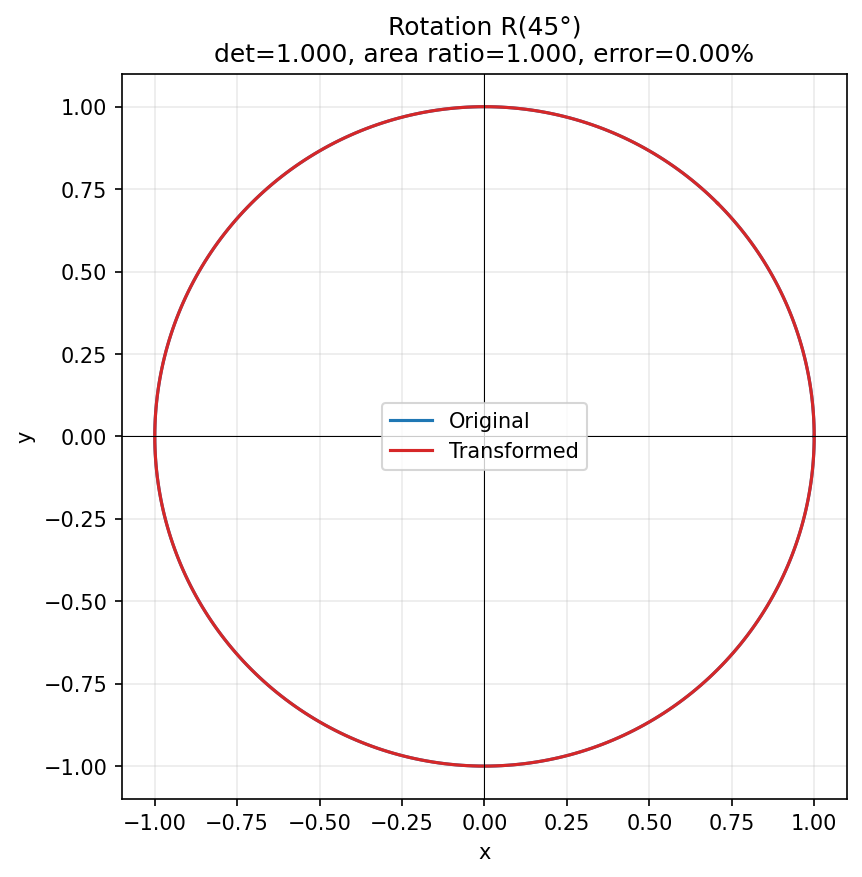
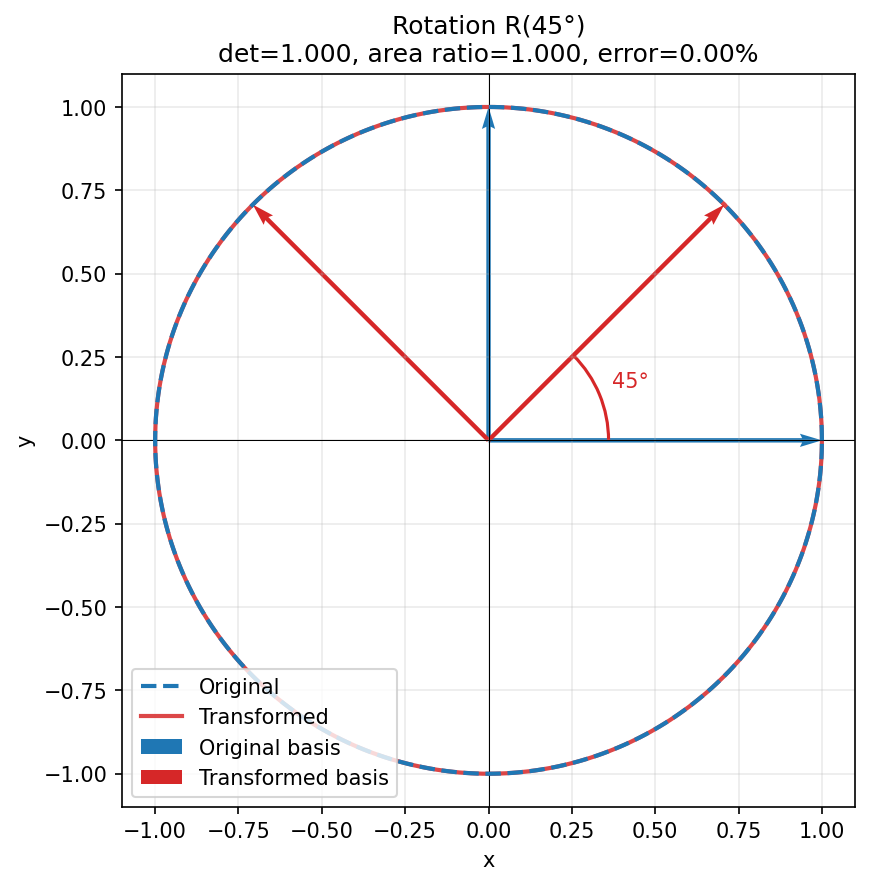
feat(linear-algebra): show rotation point movement

diff --git a/src/linear_algebra.py b/src/linear_algebra.py
@@ -6,6 +6,7 @@ import matplotlib.pyplot as plt
 import numpy as np
 from matplotlib.axes import Axes
 from matplotlib.figure import Figure
+from matplotlib.patches import Arc
 
 
 def unit_circle(num_points: int = 361) -> np.ndarray:
@@ -88,20 +89,87 @@ def plot_matrix_transform(
     ax: Optional[Axes] = None,
 ) -> Tuple[Figure, Axes]:
     """하나의 Figure에 원본과 변환한 단위 원 점을 겹쳐 그립니다."""
+    matrix_array = np.asarray(matrix, dtype=float)
     point_array = unit_circle() if points is None else np.asarray(points, dtype=float)
-    transformed = transform_points(matrix, point_array)
+    transformed = transform_points(matrix_array, point_array)
     if ax is None:
         figure, axes = plt.subplots(figsize=(6, 6))
     else:
         axes = ax
         figure = axes.figure
-    axes.plot(point_array[0], point_array[1], label="Original", color="tab:blue")
+    axes.plot(
+        point_array[0],
+        point_array[1],
+        label="Original",
+        color="tab:blue",
+        linestyle="--",
+        linewidth=2.0,
+        zorder=3,
+    )
     axes.plot(
         transformed[0],
         transformed[1],
         label="Transformed",
         color="tab:red",
+        linewidth=2.0,
+        alpha=0.85,
+        zorder=2,
     )
+    original_basis = np.eye(2)
+    transformed_basis = transform_points(matrix_array, original_basis)
+    quiver_options = {
+        "angles": "xy",
+        "scale_units": "xy",
+        "scale": 1.0,
+        "width": 0.006,
+    }
+    axes.quiver(
+        [0.0, 0.0],
+        [0.0, 0.0],
+        original_basis[0],
+        original_basis[1],
+        color="tab:blue",
+        label="Original basis",
+        **quiver_options,
+    )
+    axes.quiver(
+        [0.0, 0.0],
+        [0.0, 0.0],
+        transformed_basis[0],
+        transformed_basis[1],
+        color="tab:red",
+        label="Transformed basis",
+        **quiver_options,
+    )
+    is_rotation = np.allclose(matrix_array.T @ matrix_array, np.eye(2)) and np.isclose(
+        np.linalg.det(matrix_array),
+        1.0,
+    )
+    if is_rotation:
+        angle_degrees = float(
+            np.degrees(np.arctan2(matrix_array[1, 0], matrix_array[0, 0]))
+        )
+        if not np.isclose(angle_degrees, 0.0):
+            axes.add_patch(
+                Arc(
+                    (0.0, 0.0),
+                    0.72,
+                    0.72,
+                    theta1=min(0.0, angle_degrees),
+                    theta2=max(0.0, angle_degrees),
+                    color="tab:red",
+                    linewidth=1.5,
+                )
+            )
+            half_angle = np.radians(angle_degrees / 2.0)
+            axes.text(
+                0.46 * np.cos(half_angle),
+                0.46 * np.sin(half_angle),
+                f"{angle_degrees:.0f}°",
+                color="tab:red",
+                ha="center",
+                va="center",
+            )
     axes.axhline(0.0, color="black", linewidth=0.5)
     axes.axvline(0.0, color="black", linewidth=0.5)
     axes.set_aspect("equal", adjustable="box")
@@ -109,7 +177,7 @@ def plot_matrix_transform(
     axes.set_xlabel("x")
     axes.set_ylabel("y")
     axes.grid(alpha=0.25)
-    axes.legend()
+    axes.legend(loc="lower left")
     figure.tight_layout()
     return figure, axes
 

diff --git a/tests/test_linear_algebra.py b/tests/test_linear_algebra.py
@@ -63,6 +63,20 @@ def test_matrix_transform_plot_overlays_original_and_transformed_curves():
     plt.close(figure)
 
 
+def test_rotation_plot_marks_basis_vectors_and_rotation_angle():
+    """회전 대칭인 원에서도 기준 벡터의 이동과 회전각은 보여야 합니다."""
+    figure, axes = plot_matrix_transform(
+        rotation_matrix(np.pi / 4),
+        "Rotation",
+    )
+    labels = {artist.get_label() for artist in axes.collections}
+
+    assert {"Original basis", "Transformed basis"}.issubset(labels)
+    assert any(text.get_text() == "45°" for text in axes.texts)
+    assert len(axes.patches) == 1
+    plt.close(figure)
+
+
 def test_power_iteration_matches_dominant_numpy_eigenpair():
     """정규화나 몫이 틀리면 기준 고유쌍과 일치하지 않아야 합니다."""
     matrix = np.array([[4.0, 1.0], [1.0, 3.0]])
